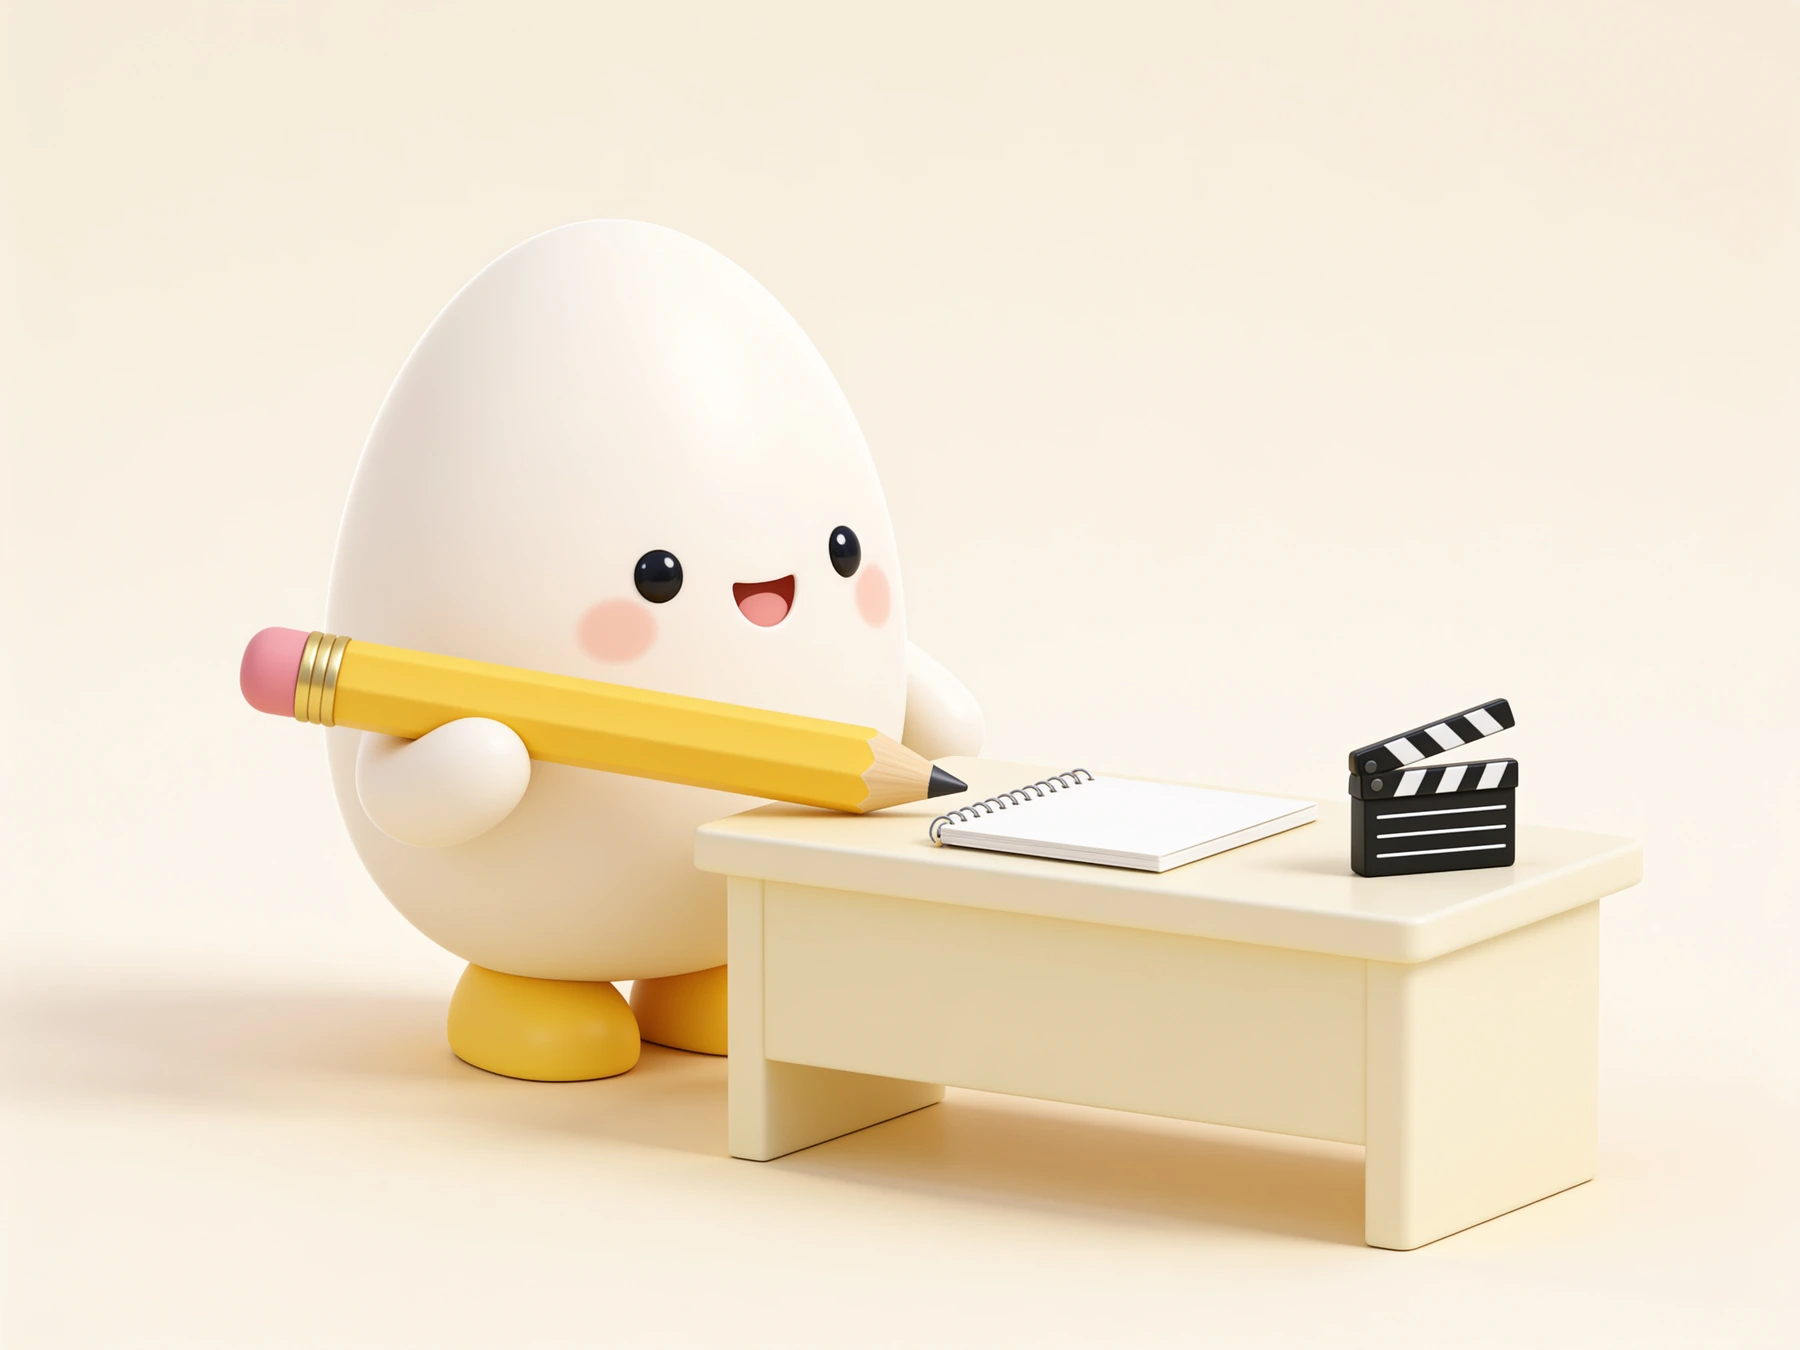
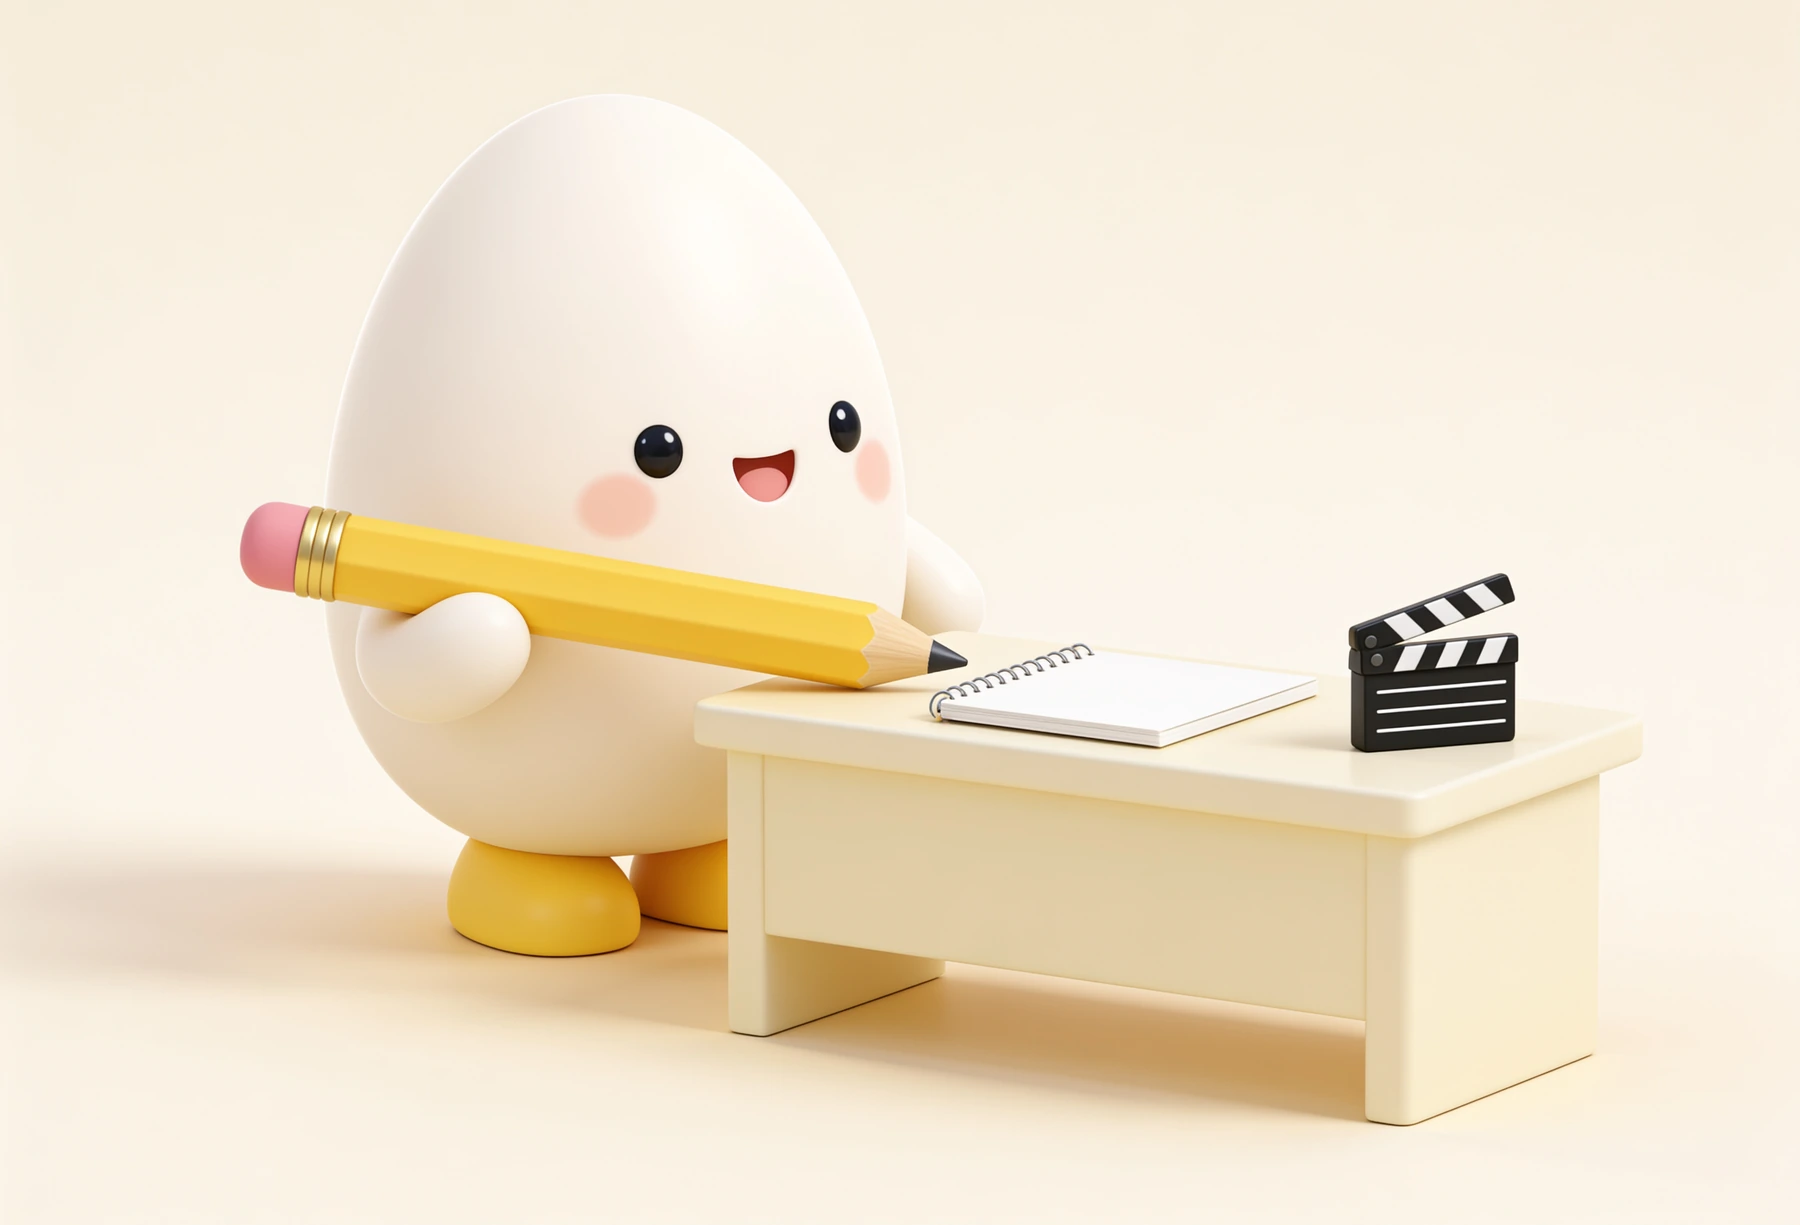
Fit the login illustration to viewport height and refine its framing

diff --git a/egg-is-going/web/src/app/login/login.css b/egg-is-going/web/src/app/login/login.css
@@ -1,15 +1,15 @@
 /* Brand split and form interactions adapted from the supplied egg-is-going-login reference. */
 /* The large illustration is a dedicated 1800px asset, separate from crew avatars. */
 .lg{min-height:100svh;display:grid;grid-template-columns:minmax(0,1.08fr) minmax(0,1fr);background:var(--cream)}
-.lg-brand{position:relative;overflow:hidden;isolation:isolate;background:#faf6eb;border-right:1px solid var(--line);padding:40px 52px 0;display:flex;flex-direction:column;min-height:740px}
+.lg-brand{position:relative;overflow:hidden;isolation:isolate;background:#faf6eb;border-right:1px solid var(--line);padding:40px 52px 0;display:flex;flex-direction:column;height:100svh;min-height:740px}
 .lg-brand .eg-wordmark{font-size:23px;flex:none}
 .lg-brand-main{position:relative;z-index:1;margin-top:clamp(58px,9vh,100px);flex:none}
 .lg-over{font-size:11px;font-weight:600;letter-spacing:.1em;color:var(--muted)}
 .lg-brand h1{margin:18px 0 0;font-size:clamp(34px,3.8vw,58px);line-height:1.2;font-weight:800;letter-spacing:-.055em;word-break:keep-all}
 .lg-period{color:#b5a100}
 .lg-lead{margin:20px 0 0;font-size:14px;line-height:1.7;color:var(--muted)}
-.lg-art{flex:1;display:flex;align-items:flex-end;justify-content:center;min-height:340px;margin:10px -52px 0;position:relative}
-.lg-art img{display:block;width:100%;height:auto;max-height:500px;object-fit:contain;object-position:50% 100%;mask-image:linear-gradient(to bottom,transparent 0%,#000 12%,#000 94%,transparent 100%)}
+.lg-art{flex:1;display:flex;align-items:flex-end;justify-content:center;min-height:0;margin:10px -52px 0;position:relative}
+.lg-art img{display:block;width:auto;height:100%;max-width:100%;object-fit:contain;object-position:50% 100%;mask-image:linear-gradient(to right,transparent,#000 6%,#000 94%,transparent),linear-gradient(to bottom,transparent,#000 5%,#000);mask-composite:intersect}
 .lg-side{display:flex;align-items:center;justify-content:center;padding:36px 32px}
 .lg-card{width:100%;max-width:440px}
 .lg-mobile-mark{display:none!important;margin-bottom:28px}
@@ -45,8 +45,8 @@
 .lg-samples__grid b{display:block;font-size:11px;font-weight:600;white-space:nowrap}.lg-samples__grid small{display:block;font-size:9px;white-space:nowrap}.lg-samples__grid .role-avatar{flex:none;background:transparent}
 .lg-sample-credentials{display:flex;flex-wrap:wrap;gap:4px 12px;min-height:16px;margin:10px 0 0;font-size:10px;color:var(--muted)}.lg-sample-credentials code{font-family:var(--font-mono);font-size:10px}
 .lg-session{display:flex;align-items:center;flex-wrap:wrap;gap:10px;margin-bottom:20px;padding:10px 12px;border:1px solid var(--line);border-radius:8px;font-size:11px;color:var(--muted)}.lg-session a{margin-left:auto;color:var(--ink)}
-@media(min-width:1600px){.lg-brand-main{margin-top:clamp(70px,10vh,130px)}.lg-art img{max-height:560px}}
-@media(max-width:1100px){.lg-brand{padding:32px 36px 0}.lg-art{margin-inline:-36px}.lg-brand h1{font-size:42px}.lg-side{padding-inline:24px}.lg-samples__grid{grid-template-columns:repeat(3,minmax(0,1fr))}}
-@media(min-width:761px) and (max-height:760px){.lg-brand{min-height:700px}.lg-brand-main{margin-top:46px}.lg-brand h1{font-size:42px}.lg-art{min-height:300px}.lg-art img{max-height:390px}}
+@media(min-width:1600px){.lg-brand-main{margin-top:clamp(70px,10vh,130px)}}
+@media(max-width:1100px){.lg-brand{padding:32px 36px 0}.lg-art{margin-inline:-36px}.lg-brand h1{font-size:clamp(30px,3.8vw,42px)}.lg-side{padding-inline:24px}.lg-samples__grid{grid-template-columns:repeat(3,minmax(0,1fr))}}
+@media(min-width:761px) and (max-height:760px){.lg-brand{min-height:700px}.lg-brand-main{margin-top:46px}.lg-brand h1{font-size:clamp(30px,3.8vw,42px)}}
 @media(max-width:760px){.lg{display:block}.lg-brand{display:none}.lg-side{min-height:100svh;padding:32px 24px}.lg-mobile-mark{display:inline-flex!important;font-size:20px}.lg-card h2{font-size:25px}.lg-sub{margin-bottom:26px}.lg-samples{margin-top:26px}}
 @media(prefers-reduced-motion:reduce){.lg *{transition:none!important}}

diff --git a/egg-is-going/web/src/app/login/page.tsx b/egg-is-going/web/src/app/login/page.tsx
@@ -16,7 +16,7 @@ export default async function LoginPage({ searchParams }: { searchParams: Promis
           <p className="lg-lead">녹취부터 회의록 확인·결재까지.</p>
         </div>
         <div className="lg-art" aria-hidden="true">
-          <img src="/brand/login-studio-v3.webp" width={1800} height={1350} alt="" fetchPriority="high" decoding="async" />
+          <img src="/brand/login-studio-v3.webp" width={1800} height={1225} alt="" fetchPriority="high" decoding="async" />
         </div>
       </section>
       <section className="lg-side" aria-label="로그인">
